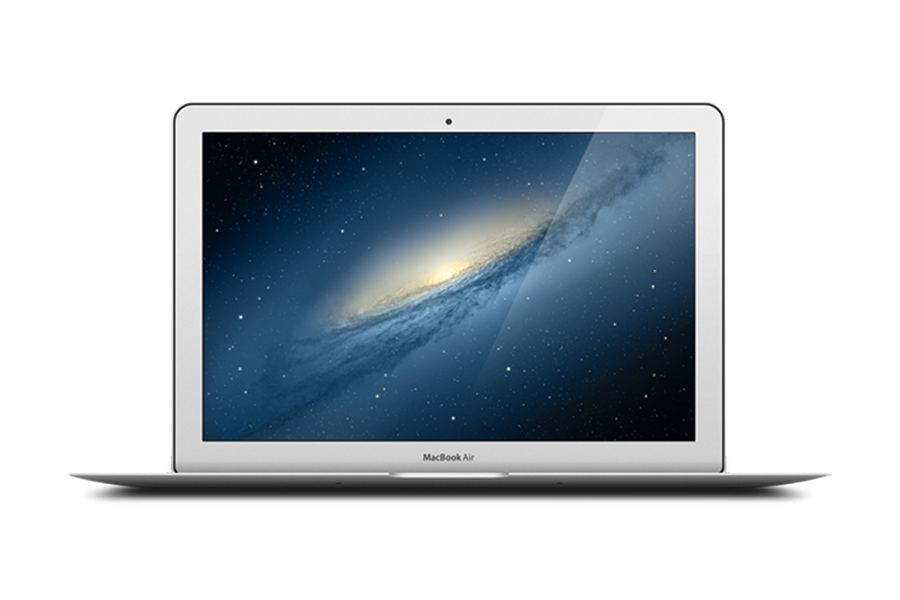
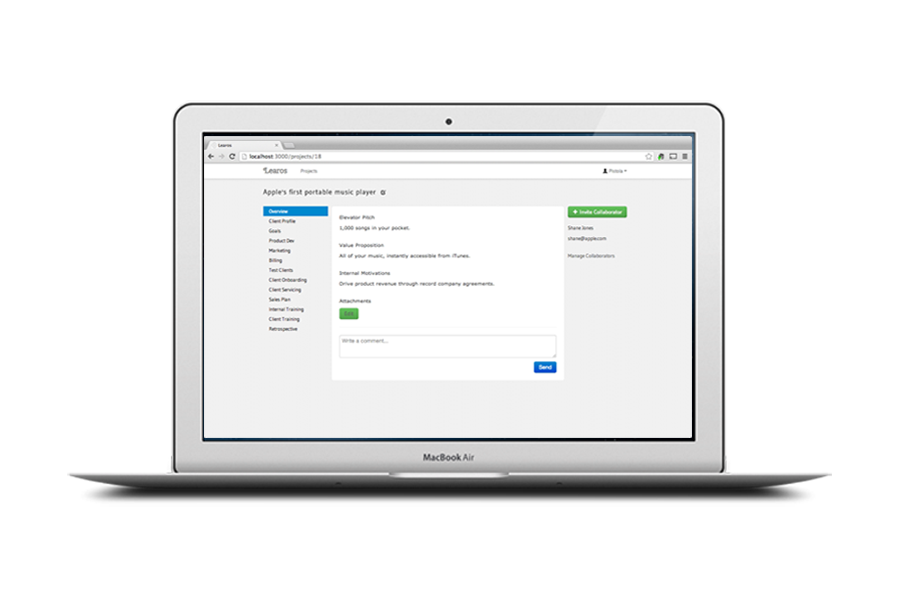
added landing page and redirects

Changed region(s): [[0.2178, 0.21, 0.7778, 0.75]]

diff --git a/app/assets/stylesheets/bootstrap_and_overrides.css.scss b/app/assets/stylesheets/bootstrap_and_overrides.css.scss
@@ -41,7 +41,7 @@ a {
 	font-family: 'Gudea', sans-serif;	
 }
 
-p {
+.p {
 	font-family: 'Gudea', sans-serif;	
 }
 
@@ -58,14 +58,14 @@ textarea {
 #brand:hover { color:#FFF; }
 
 #top_header {
-	margin-left: 43px;
+	margin-left: 48px;
 	font-family: 'Gudea', sans-serif;
 }
 
 #trial_button {
 	float: right;
 	margin-top: -40px;
-	margin-right: -28px;
+	margin-right: -30px;
 	font-weight: bold;
 }
 
@@ -77,6 +77,7 @@ textarea {
 #trial_button_bottom:visited { color:#FFF; }
 #trial_button:visited { color:#FFF; }
 #upgrade_from_projects:visited { color:#FFF; }
+#invite_colab_button:visited { color:#FFF; }
 
 .hero-unit {
 	background-image: url("/assets/binding_dark.png");
@@ -86,6 +87,7 @@ textarea {
 		color: #C8C8C8;
 		font-size: 28px;
 		margin-top: 30px;
+		margin-left: 5px;
 	}
 }
 
@@ -106,9 +108,18 @@ textarea {
 	margin-top: 20px;
 }
 
+#invite_column > p {
+	font-family: 'Gudea', sans-serif;
+}
+
+#tab-pane {
+	font-family: 'Gudea', sans-serif;
+}
+
 #macbook {
 	margin-top: -478px;
 	float: right;
+	margin-right: 	0px;
 }
 
 #home_page_well {

diff --git a/config/routes.rb b/config/routes.rb
@@ -17,7 +17,10 @@ Learos::Application.routes.draw do
   authenticated :user do
     root :to => 'home#index'
   end
+
   root :to => "home#index"
+  get 'landing', to: 'home#landing'
+
   devise_for :users
   devise_scope :user do
     put 'update_plan', :to => 'registrations#update_plan'
